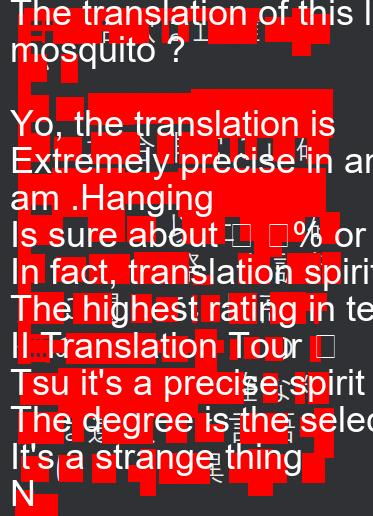
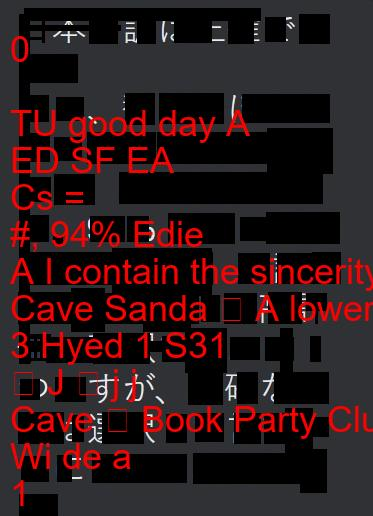
vertical translation of traditional japanese works

diff --git a/main.py b/main.py
@@ -7,7 +7,7 @@ app = FastAPI()
 
 # OCR configuration
 pytesseract.pytesseract.tesseract_cmd = r"C:\Program Files (x86)\Tesseract-OCR\tesseract.exe"
-config = ('-l jpn --oem 1 --psm 3')
+config = ('-l script/Japanese_vert --oem 1 --psm 3')
 
 @app.post("/image/")
 async def image_upload(file: UploadFile):
@@ -33,11 +33,11 @@ async def image_upload(file: UploadFile):
     height = image.height
     for b in boxes.splitlines():
         b = b.split()
-        draw.rectangle(((int(b[1]), height - int(b[2])), (int(b[3]), height - int(b[4]))), fill='red')
+        draw.rectangle(((int(b[1]), height - int(b[2])), (int(b[3]), height - int(b[4]))), fill='black')
     # Draw the new text on the image
     text_x = 10
     text_y = height - 10 - text_height
-    draw.text((text_x, text_y), translated_text, font=font, fill=(255, 255, 255))
+    draw.text((text_x, text_y), translated_text, font=font, fill=(255, 0, 0))
 
     # Save the image with the new text
     image.save("new_image.jpg")
